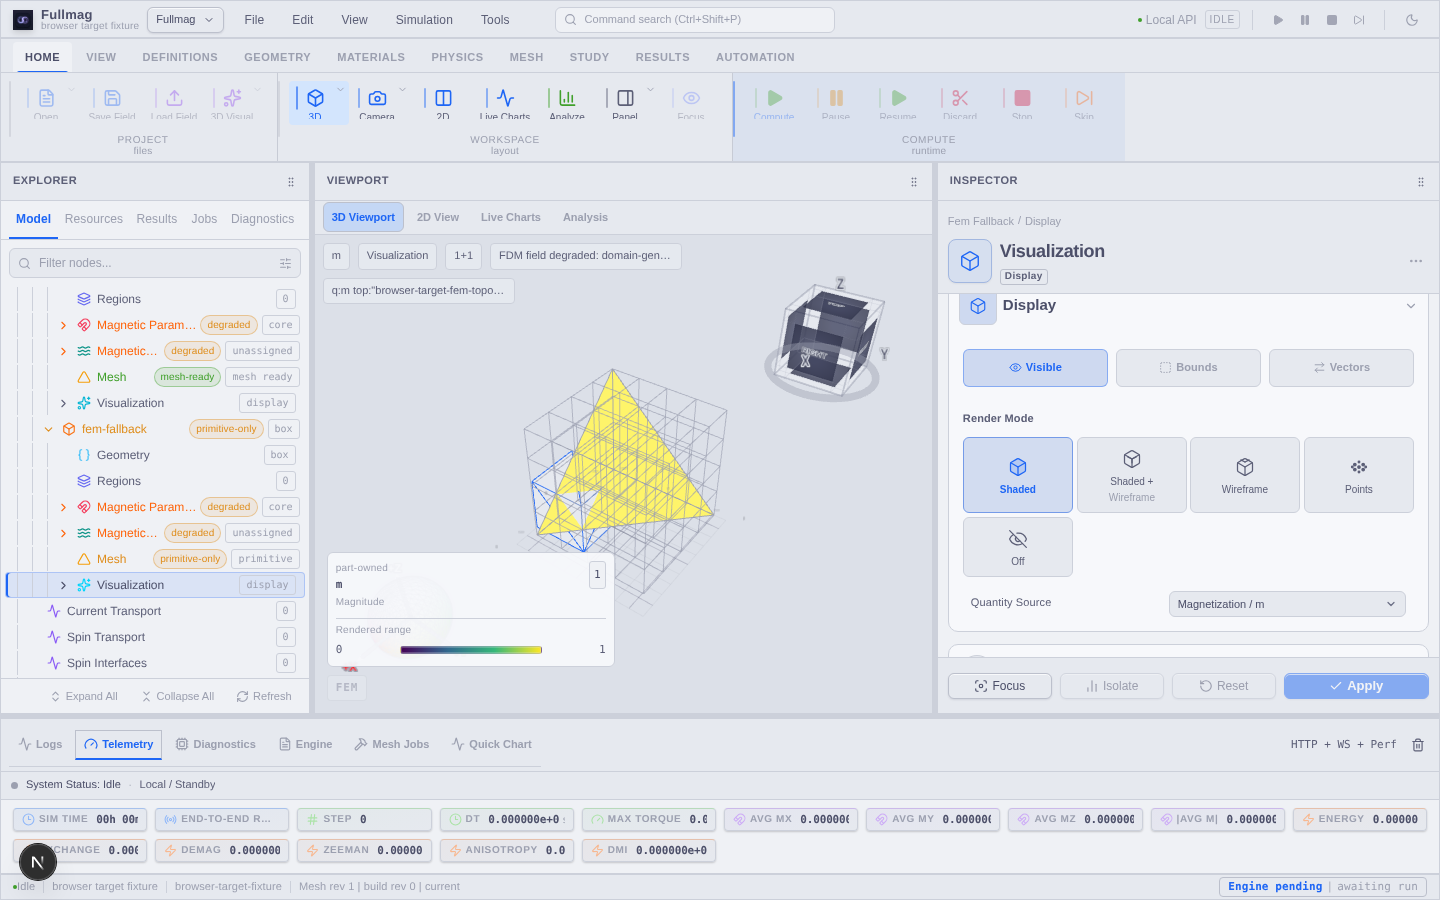
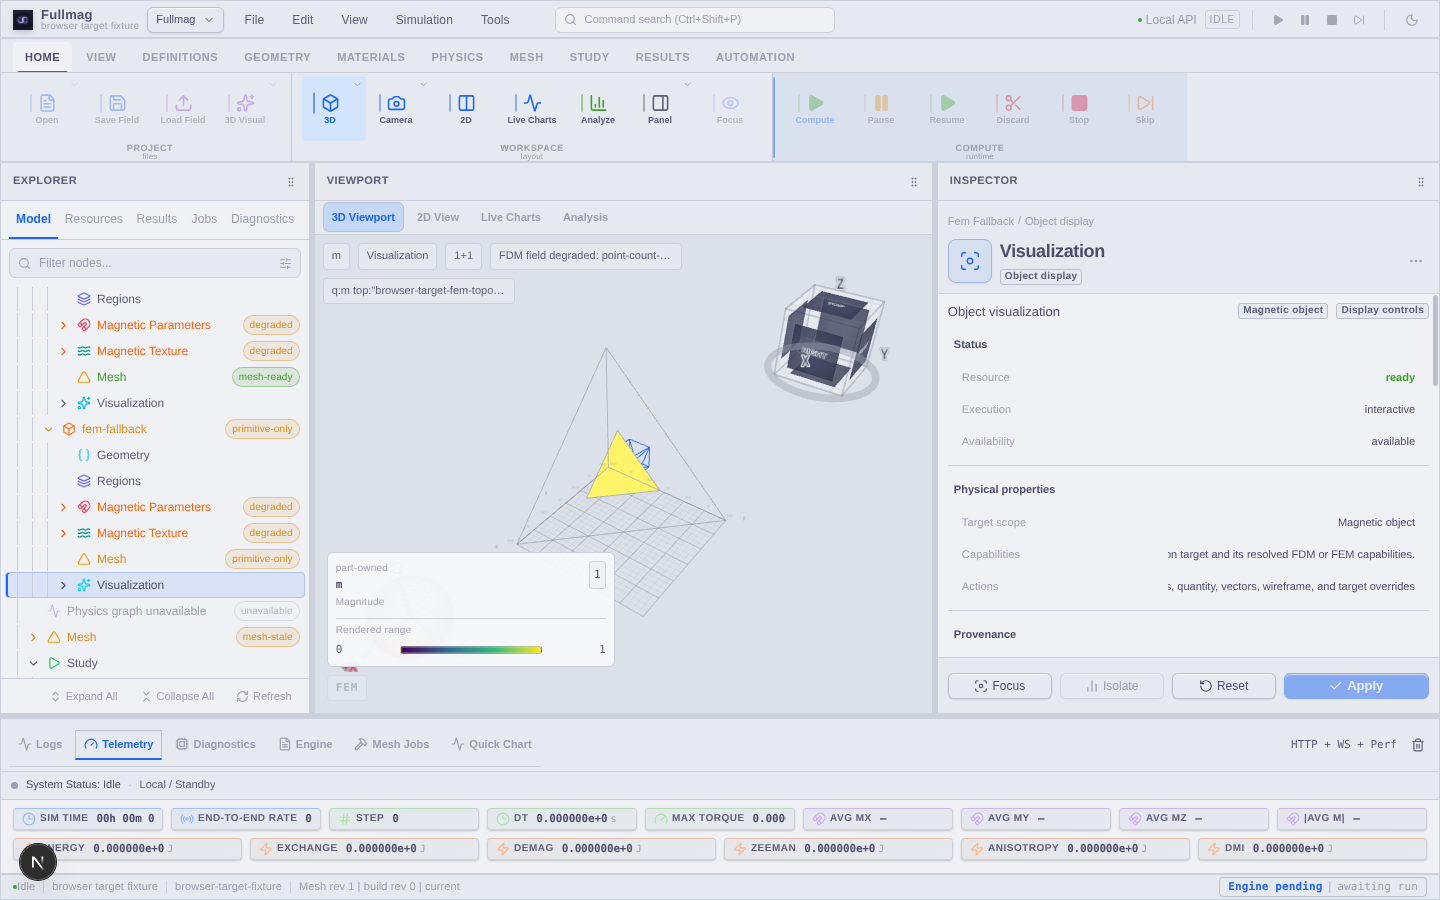
fix: Update Airbox visualization tests and improve rendering modes

diff --git a/apps/control-room/src/modules/viewport-3d/hooks/useViewport3DSceneModel.test.ts b/apps/control-room/src/modules/viewport-3d/hooks/useViewport3DSceneModel.test.ts
@@ -630,7 +630,7 @@ describe("useViewport3DSceneModel", () => {
   it("uses canonical local Airbox settings for both FDM Airbox carriers", () => {
     const source = readFileSync(sceneModelSourceUrl, "utf8");
     expect(source).toContain(
-      "target: AIRBOX_VISUALIZATION_TARGET,\n        visualizationState: renderingState,",
+      "target: AIRBOX_VISUALIZATION_TARGET,\n        visualizationState: fdmLaneActive ? null : renderingState,",
     );
     const fdmSingleGridAirboxBlock = source.slice(
       source.indexOf("const fdmSingleGridAirboxSettings ="),
@@ -650,7 +650,9 @@ describe("useViewport3DSceneModel", () => {
 
     expect(airboxSettingsBlock).toContain("resolveTargetVisualization({");
     expect(airboxSettingsBlock).toContain("target: AIRBOX_VISUALIZATION_TARGET");
-    expect(airboxSettingsBlock).toContain("visualizationState: renderingState");
+    expect(airboxSettingsBlock).toContain(
+      "visualizationState: fdmLaneActive ? null : renderingState",
+    );
     expect(airboxSettingsBlock).not.toContain("resolveViewport3DFdmTargetVisualization({");
 
     const singleGridDisplayBlock = source.slice(
@@ -4587,7 +4589,7 @@ describe("useViewport3DSceneModel", () => {
   it("builds FDM scalar colors from the FDM target palette, not the FEM/global palette", () => {
     const source = readFileSync(sceneModelSourceUrl, "utf8");
     const fdmColorBlock = source.slice(
-      source.indexOf("const fdmTargetViews ="),
+      source.indexOf("const fdmTargetViews:"),
       source.indexOf("const chunkedScalarColors = useViewport3DChunkedScalarColors"),
     );
 
@@ -4598,7 +4600,7 @@ describe("useViewport3DSceneModel", () => {
   it("builds a separate FDM vector color buffer for vector-only colorbars", () => {
     const source = readFileSync(sceneModelSourceUrl, "utf8");
     const fdmVectorColorBlock = source.slice(
-      source.indexOf("const fdmTargetViews ="),
+      source.indexOf("const fdmTargetViews:"),
       source.indexOf("const chunkedScalarColors = useViewport3DChunkedScalarColors"),
     );
 

diff --git a/apps/control-room/src/modules/viewport-3d/layers/FdmCuboidLayer.test.ts b/apps/control-room/src/modules/viewport-3d/layers/FdmCuboidLayer.test.ts
@@ -435,7 +435,8 @@ describe("FdmCuboidLayer model", () => {
     expect(sceneModelSource).toContain('cellSelection: "inactive"');
     expect(sceneModelSource).toContain("fdmAirboxInstanceModel");
     expect(sceneSource).toContain("fdmAirboxInstanceModel: FdmCuboidInstanceModel");
-    expect(sceneSource).toContain("settings={fdmUniverseOutsideSupportSettings}");
+    expect(sceneSource).toContain("settings={airboxSettings}");
+    expect(sceneSource).not.toContain("settings={fdmUniverseOutsideSupportSettings}");
   });
 
   it("keeps native multilayer and Airbox surface colors independent from shader visibility", () => {

diff --git a/crates/fullmag-cli/src/orchestrator.rs b/crates/fullmag-cli/src/orchestrator.rs
@@ -5734,12 +5734,18 @@ fn cumulative_rhs_evals(steps: &[fullmag_runner::StepStats]) -> u64 {
     steps.iter().map(|step| u64::from(step.rhs_evals)).sum()
 }
 
+#[derive(Debug, Clone, Copy, PartialEq, Eq)]
+enum ProblemPreviewRefreshMode {
+    PreviewOnly,
+    MaterializeFields,
+}
+
 fn refresh_problem_preview_state(
     base_problem: &ProblemIR,
     continuation_magnetization: Option<&[[f64; 3]]>,
     display_selection: &CurrentDisplaySelection,
     live_workspace: &LocalLiveWorkspace,
-    refresh_cache: bool,
+    refresh_mode: ProblemPreviewRefreshMode,
 ) -> Result<()> {
     let mut problem = base_problem.clone();
     if let Some(previous_final_magnetization) = continuation_magnetization {
@@ -5747,7 +5753,9 @@ fn refresh_problem_preview_state(
     }
 
     let preview_request = display_selection.preview_request();
-    let (preview_field, cached_fields, auxiliary_artifacts) = if refresh_cache {
+    let (preview_field, cached_fields, auxiliary_artifacts) = if refresh_mode
+        == ProblemPreviewRefreshMode::MaterializeFields
+    {
         let cached_quantities = fullmag_runner::quantities::field_materialization_quantity_ids();
         let materialization_request = full_field_materialization_request(preview_request.clone());
         let batch = fullmag_runner::snapshot_problem_vector_field_batch(
@@ -7914,7 +7922,7 @@ pub(crate) fn run_script_mode(raw_args: Vec<OsString>) -> Result<()> {
                         continuation_magnetization.as_deref(),
                         &display_selection,
                         &live_workspace,
-                        supports_dynamic_live_preview(&stage_execution_plans[0].backend_plan),
+                        ProblemPreviewRefreshMode::PreviewOnly,
                     ) {
                         live_workspace.push_log(
                             "warn",
@@ -7953,9 +7961,13 @@ pub(crate) fn run_script_mode(raw_args: Vec<OsString>) -> Result<()> {
                                 continuation_magnetization.as_deref(),
                                 &display_selection,
                                 &live_workspace,
-                                supports_dynamic_live_preview(
+                                if supports_dynamic_live_preview(
                                     &stage_execution_plans[0].backend_plan,
-                                ),
+                                ) {
+                                    ProblemPreviewRefreshMode::MaterializeFields
+                                } else {
+                                    ProblemPreviewRefreshMode::PreviewOnly
+                                },
                             ) {
                                 live_workspace.push_log(
                                     "warn",
@@ -7999,7 +8011,7 @@ pub(crate) fn run_script_mode(raw_args: Vec<OsString>) -> Result<()> {
                         compute_magnetization,
                         &display_selection,
                         &live_workspace,
-                        true,
+                        ProblemPreviewRefreshMode::MaterializeFields,
                     ) {
                         Ok(()) => live_workspace.push_log(
                             "success",
@@ -8426,7 +8438,11 @@ pub(crate) fn run_script_mode(raw_args: Vec<OsString>) -> Result<()> {
                     Some(synthetic_outcome.magnetization.as_slice()),
                     &display_selection,
                     &live_workspace,
-                    supports_dynamic_live_preview(&execution_plan.backend_plan),
+                    if supports_dynamic_live_preview(&execution_plan.backend_plan) {
+                        ProblemPreviewRefreshMode::MaterializeFields
+                    } else {
+                        ProblemPreviewRefreshMode::PreviewOnly
+                    },
                 ) {
                     live_workspace.push_log(
                         "warn",
@@ -14452,6 +14468,20 @@ mod tests {
         assert!(function_body.contains("snapshot_problem_vector_field_batch"));
         assert!(function_body.contains("replace_auxiliary_artifacts"));
         assert!(function_body.contains("full_field_materialization_request"));
+    }
+
+    #[test]
+    fn display_sync_refresh_stays_bounded_to_the_preview_request() {
+        let source = include_str!("orchestrator.rs");
+        let display_sync_arm = source
+            .split("\"display_sync\" => {")
+            .nth(1)
+            .and_then(|rest| rest.split("\"load_state\" => {").next())
+            .expect("display_sync command arm should be present");
+
+        assert!(display_sync_arm.contains("ProblemPreviewRefreshMode::PreviewOnly"));
+        assert!(!display_sync_arm.contains("ProblemPreviewRefreshMode::MaterializeFields"));
+        assert!(!display_sync_arm.contains("full_field_materialization_request"));
     }
 
     #[test]
